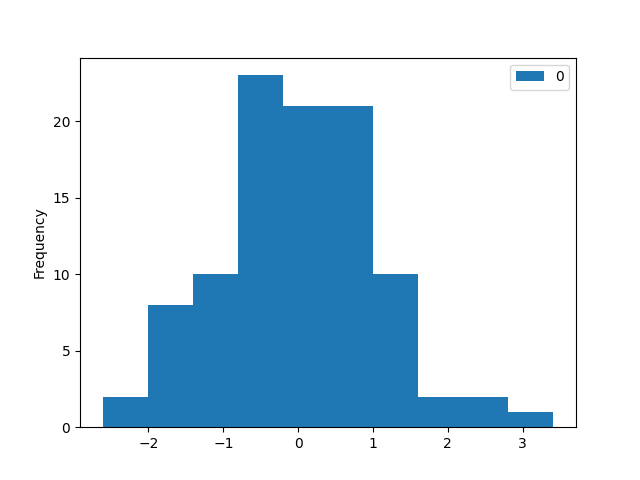
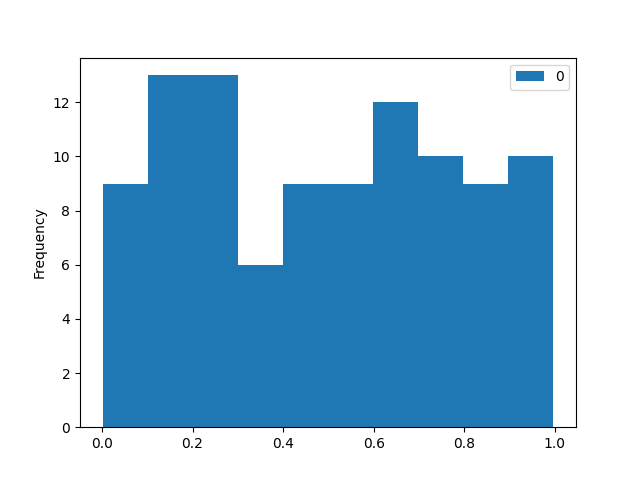
add differend exmaples of random distribution for uniform and standard normal

diff --git a/deep_lizz/GANs/torch_random_noise.py b/deep_lizz/GANs/torch_random_noise.py
@@ -5,10 +5,11 @@ import pandas as pd
 torch.manual_seed(0)
 torch.set_printoptions(linewidth=120)
 
-# Create a tensor of 100 random numbers
-noise_vector_1 = torch.randn(100)
+# Create a tensor of 100 random numbers from a random uniform distribution over the interval [0, 1)]
+noise_vector_1 = torch.rand(100)
 print(noise_vector_1)
 
+# Create a tensor of 100 random numbers from a random standard normal distribution with mean 0 and standard deviation 1
 noise_vector_2 = torch.randn(100)
 print(noise_vector_2)
 
